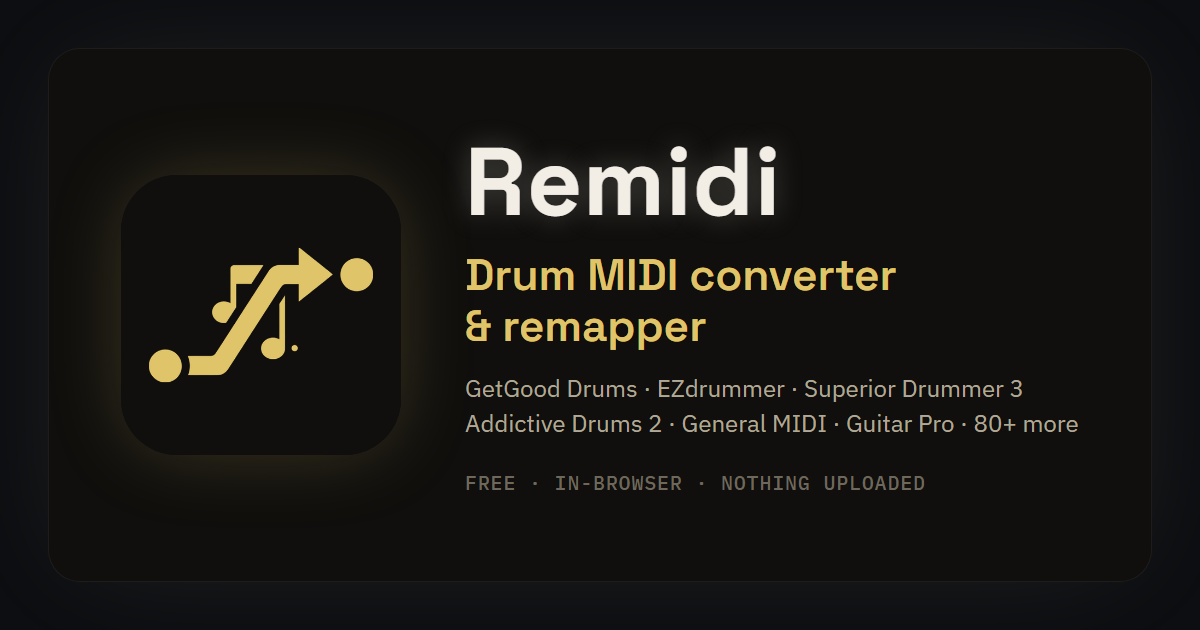
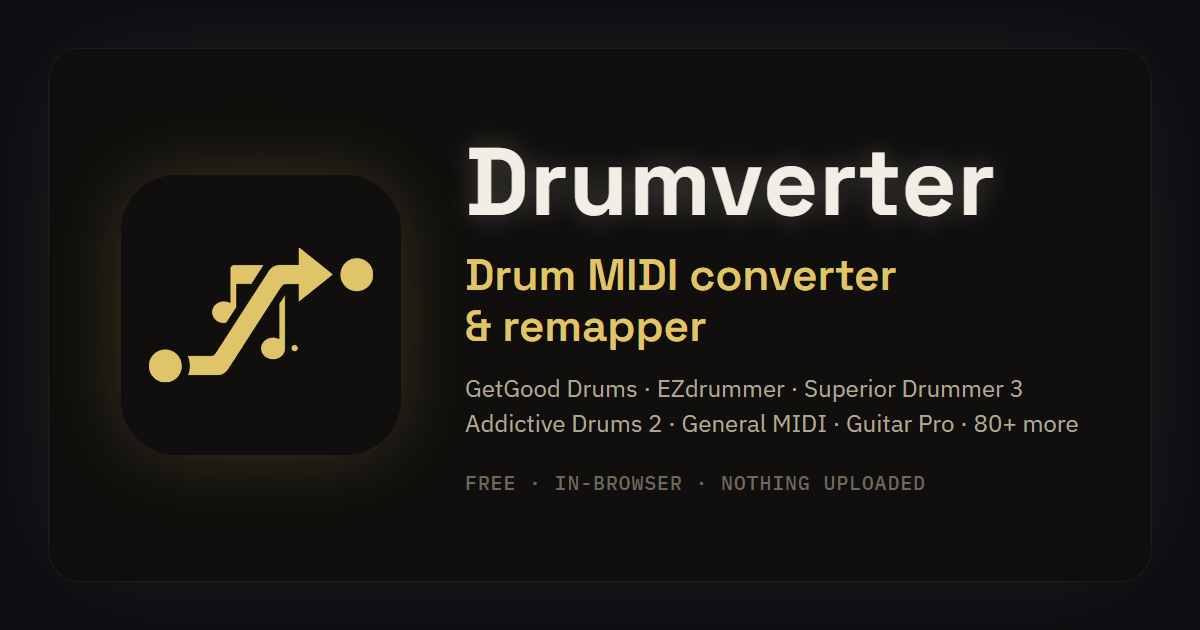
Rename to Drumverter and serve from drumverter.com

Changed region(s): [[0.37, 0.2111, 0.8325, 0.3619]]

diff --git a/app/index.html b/app/index.html
@@ -3,13 +3,13 @@
   <head>
     <meta charset="UTF-8" />
     <meta name="viewport" content="width=device-width, initial-scale=1.0" />
-    <title>Remidi — free drum MIDI remapper & converter</title>
+    <title>Drumverter — free drum MIDI remapper & converter</title>
     <meta
       name="description"
       content="Free drum MIDI converter: remap drum MIDI between GetGood Drums, EZdrummer, Superior Drummer, Addictive Drums, General MIDI and Guitar Pro in-browser."
     />
     <meta name="robots" content="index,follow" />
-    <link rel="canonical" href="https://nullcrimson.github.io/remidi/" />
+    <link rel="canonical" href="https://drumverter.com/" />
 
     <link rel="icon" href="/favicon.ico" sizes="48x48" />
     <link rel="icon" type="image/png" sizes="32x32" href="/favicon-32x32.png" />
@@ -19,22 +19,22 @@
     <meta name="theme-color" content="#100f0d" />
 
     <meta property="og:type" content="website" />
-    <meta property="og:site_name" content="Remidi" />
-    <meta property="og:title" content="Remidi — free drum MIDI remapper & converter" />
+    <meta property="og:site_name" content="Drumverter" />
+    <meta property="og:title" content="Drumverter — free drum MIDI remapper & converter" />
     <meta
       property="og:description"
       content="Convert drum MIDI between GetGood Drums, EZdrummer, Superior Drummer, Addictive Drums and 80+ more engines. Free, in-browser."
     />
-    <meta property="og:url" content="https://nullcrimson.github.io/remidi/" />
-    <meta property="og:image" content="https://nullcrimson.github.io/remidi/og-image.png" />
+    <meta property="og:url" content="https://drumverter.com/" />
+    <meta property="og:image" content="https://drumverter.com/og-image.png" />
     <meta property="og:image:type" content="image/png" />
     <meta property="og:image:width" content="1200" />
     <meta property="og:image:height" content="630" />
-    <meta property="og:image:alt" content="Remidi — drum MIDI converter and remapper" />
+    <meta property="og:image:alt" content="Drumverter — drum MIDI converter and remapper" />
     <meta name="twitter:card" content="summary_large_image" />
-    <meta name="twitter:image" content="https://nullcrimson.github.io/remidi/og-image.png" />
-    <meta name="twitter:image:alt" content="Remidi — drum MIDI converter and remapper" />
-    <meta name="twitter:title" content="Remidi — free drum MIDI remapper & converter" />
+    <meta name="twitter:image" content="https://drumverter.com/og-image.png" />
+    <meta name="twitter:image:alt" content="Drumverter — drum MIDI converter and remapper" />
+    <meta name="twitter:title" content="Drumverter — free drum MIDI remapper & converter" />
     <meta
       name="twitter:description"
       content="Free in-browser drum MIDI remapper — remap drum MIDI between sample-engine note layouts."
@@ -51,9 +51,9 @@
       {
         "@context": "https://schema.org",
         "@type": "SoftwareApplication",
-        "name": "Remidi",
+        "name": "Drumverter",
         "description": "Free in-browser tool that remaps drum MIDI between sample-engine note layouts.",
-        "url": "https://nullcrimson.github.io/remidi/",
+        "url": "https://drumverter.com/",
         "applicationCategory": "MultimediaApplication",
         "operatingSystem": "Web",
         "offers": { "@type": "Offer", "price": "0", "priceCurrency": "USD" }
@@ -97,7 +97,7 @@
         "mainEntity": [
           {
             "@type": "Question",
-            "name": "Is Remidi free?",
+            "name": "Is Drumverter free?",
             "acceptedAnswer": {
               "@type": "Answer",
               "text": "Yes. It runs entirely in your browser, with no account and no cost."
@@ -140,7 +140,7 @@
             "name": "What if a drum has no equivalent in the target engine?",
             "acceptedAnswer": {
               "@type": "Answer",
-              "text": "Remidi uses per-slot fallback chains to pick the closest available voice, and reports anything it couldn't map."
+              "text": "Drumverter uses per-slot fallback chains to pick the closest available voice, and reports anything it couldn't map."
             }
           }
         ]
@@ -150,9 +150,9 @@
   <body>
     <div id="root"></div>
     <noscript>
-      <h1>Remidi — free drum MIDI remapper &amp; converter</h1>
+      <h1>Drumverter — free drum MIDI remapper &amp; converter</h1>
       <p>
-        Remidi is a free drum MIDI remapper. It remaps a drum MIDI file written for one sample
+        Drumverter is a free drum MIDI remapper. It remaps a drum MIDI file written for one sample
         engine's note layout into another's — for example remapping GetGood Drums to EZdrummer,
         Superior Drummer, Addictive Drums, General MIDI, or Guitar Pro — using a canonical drum
         vocabulary with per-slot fallbacks. This MIDI remapping runs entirely in your browser;

diff --git a/app/src/components/AboutContent.tsx b/app/src/components/AboutContent.tsx
@@ -35,7 +35,7 @@ const STEPS: { title: string; body: string }[] = [
 
 const FAQ: { q: string; a: string }[] = [
   {
-    q: 'Is Remidi free?',
+    q: 'Is Drumverter free?',
     a: 'Yes. It runs entirely in your browser, with no account and no cost.',
   },
   {
@@ -56,7 +56,7 @@ const FAQ: { q: string; a: string }[] = [
   },
   {
     q: 'What if a drum has no equivalent in the target engine?',
-    a: "Remidi uses per-slot fallback chains to pick the closest available voice, and reports anything it couldn't map.",
+    a: "Drumverter uses per-slot fallback chains to pick the closest available voice, and reports anything it couldn't map.",
   },
 ];
 
@@ -64,7 +64,7 @@ function GuideBody() {
   return (
     <div className="flex flex-col gap-3">
       <p>
-        Remidi is a free drum MIDI remapper for every sample engine. It converts a drum MIDI groove
+        Drumverter is a free drum MIDI remapper for every sample engine. It converts a drum MIDI groove
         written for one sample engine&apos;s note layout into another&apos;s — entirely in your
         browser. Drop in a .mid from GetGood Drums, remap it to EZdrummer, Superior Drummer 3,
         Addictive Drums 2, General MIDI, or Guitar Pro, and download a ready-to-use file. No upload,
@@ -94,7 +94,7 @@ function GuideBody() {
 function EnginesBody() {
   return (
     <div className="flex flex-col gap-3">
-      <p>Remidi maps between dozens of drum-engine note layouts, in any direction — including:</p>
+      <p>Drumverter maps between dozens of drum-engine note layouts, in any direction — including:</p>
       <ul className="
         flex list-disc flex-col gap-1 pl-5
         marker:text-t6
@@ -195,7 +195,7 @@ function TermsBody() {
   return (
     <div className="flex flex-col gap-3">
       <p>
-        Remidi is a free tool provided “as is” and “as available”, without warranties of any
+        Drumverter is a free tool provided “as is” and “as available”, without warranties of any
         kind. The author makes no guarantee that it is accurate, error-free, or uninterrupted.
       </p>
       <p>
@@ -205,17 +205,17 @@ function TermsBody() {
       </p>
       <p>
         To the maximum extent permitted by law, the author is not liable for any damages or
-        data loss arising from use of, or inability to use, Remidi.
+        data loss arising from use of, or inability to use, Drumverter.
       </p>
       <p>
-        All engine and product names are trademarks of their respective owners. Remidi is
+        All engine and product names are trademarks of their respective owners. Drumverter is
         independent and not affiliated with, endorsed by, or sponsored by any of them; names
         are used only to identify layout compatibility.
       </p>
       <p>
-        Conversion runs entirely in your browser — files are not uploaded or stored. Remidi
+        Conversion runs entirely in your browser — files are not uploaded or stored. Drumverter
         collects only anonymous, cookieless usage statistics (such as page views) to gauge
-        whether the tool is useful; your MIDI never leaves your device. Remidi may change or shut
+        whether the tool is useful; your MIDI never leaves your device. Drumverter may change or shut
         down at any time. Using it means you accept these terms.
       </p>
     </div>

diff --git a/app/test/App.states.test.tsx b/app/test/App.states.test.tsx
@@ -18,7 +18,7 @@ describe('App states', () => {
     }));
     const { default: App } = await import('../src/App');
     render(<App />);
-    expect(screen.getByRole('heading', { name: /^Remidi/ })).toBeInTheDocument();
+    expect(screen.getByRole('heading', { name: /^Drumverter/ })).toBeInTheDocument();
     expect(screen.getByText(/Loading converter/i)).toBeInTheDocument();
   });
 
@@ -32,7 +32,7 @@ describe('App states', () => {
     }));
     const { default: App } = await import('../src/App');
     render(<App />);
-    expect(screen.getByRole('heading', { name: /^Remidi/ })).toBeInTheDocument();
+    expect(screen.getByRole('heading', { name: /^Drumverter/ })).toBeInTheDocument();
     expect(await screen.findByText(/Failed to load converter/i)).toBeInTheDocument();
     expect(screen.getByText(/wasm boom/)).toBeInTheDocument();
   });

diff --git a/app/test/AboutContent.test.tsx b/app/test/AboutContent.test.tsx
@@ -56,7 +56,7 @@ describe('AboutContent', () => {
     await userEvent.click(screen.getByRole('button', { name: /FAQ/i }));
     const dialog = screen.getByRole('dialog', { name: 'Frequently asked questions' });
     expect(dialog).toBeVisible();
-    expect(screen.getByRole('heading', { name: 'Is Remidi free?' })).toBeVisible();
+    expect(screen.getByRole('heading', { name: 'Is Drumverter free?' })).toBeVisible();
     await userEvent.click(screen.getByRole('button', { name: 'Close' }));
     expect(screen.queryByRole('dialog')).not.toBeInTheDocument();
   });

diff --git a/app/test/App.convert.test.tsx b/app/test/App.convert.test.tsx
@@ -22,7 +22,7 @@ describe('App convert view', () => {
   it('disables convert and edit until both engines are chosen', async () => {
     render(<App />);
     await waitFor(() => expect(screen.getByText('FROM')).toBeInTheDocument());
-    expect(screen.getByRole('heading', { name: /^Remidi/ })).toBeInTheDocument();
+    expect(screen.getByRole('heading', { name: /^Drumverter/ })).toBeInTheDocument();
     expect(screen.getByText('TO')).toBeInTheDocument();
 
     const editButton = () => screen.getByRole('button', { name: /Edit individual notes/i });

diff --git a/app/scripts/og-image.html b/app/scripts/og-image.html
@@ -82,7 +82,7 @@
       <div class="card">
         <img class="icon" src="../public/icon-512.png" alt="" />
         <div class="text">
-          <div class="name">Remidi</div>
+          <div class="name">Drumverter</div>
           <div class="tagline">Drum MIDI converter<br />&amp; remapper</div>
           <div class="engines">
             GetGood Drums · EZdrummer · Superior Drummer 3<br />

diff --git a/app/src/App.tsx b/app/src/App.tsx
@@ -53,7 +53,7 @@ function Header() {
               [text-shadow:0_0_12px_rgba(236,232,224,0.3)]
             "
           >
-            Remidi
+            Drumverter
           </span>
           <span className="text-[14px] font-normal text-t5">— drum MIDI converter & remapper</span>
         </h1>
